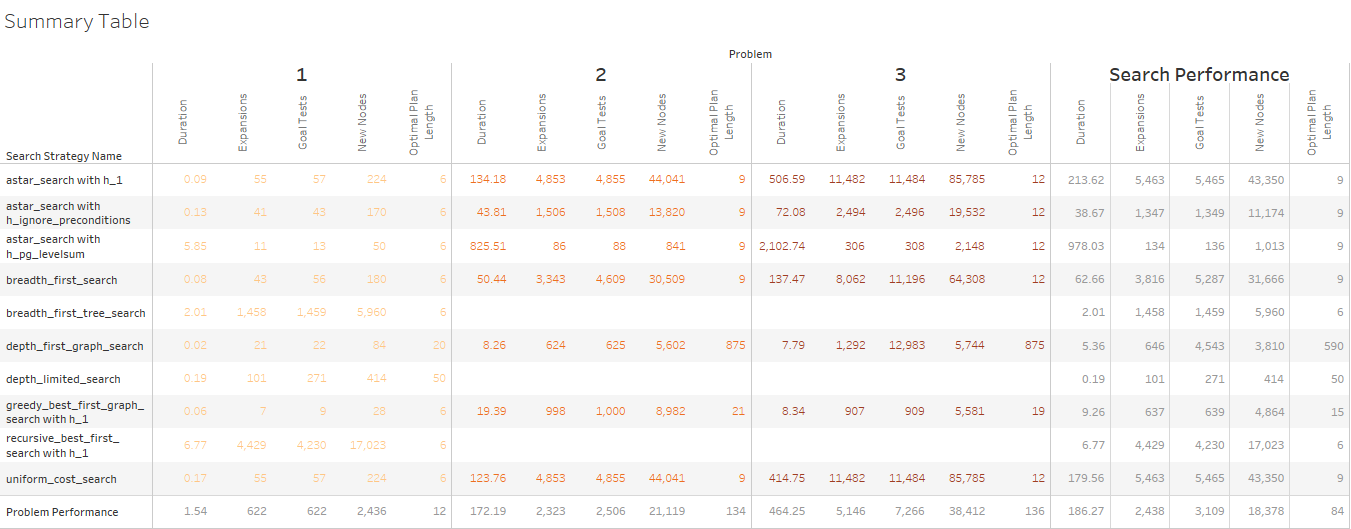
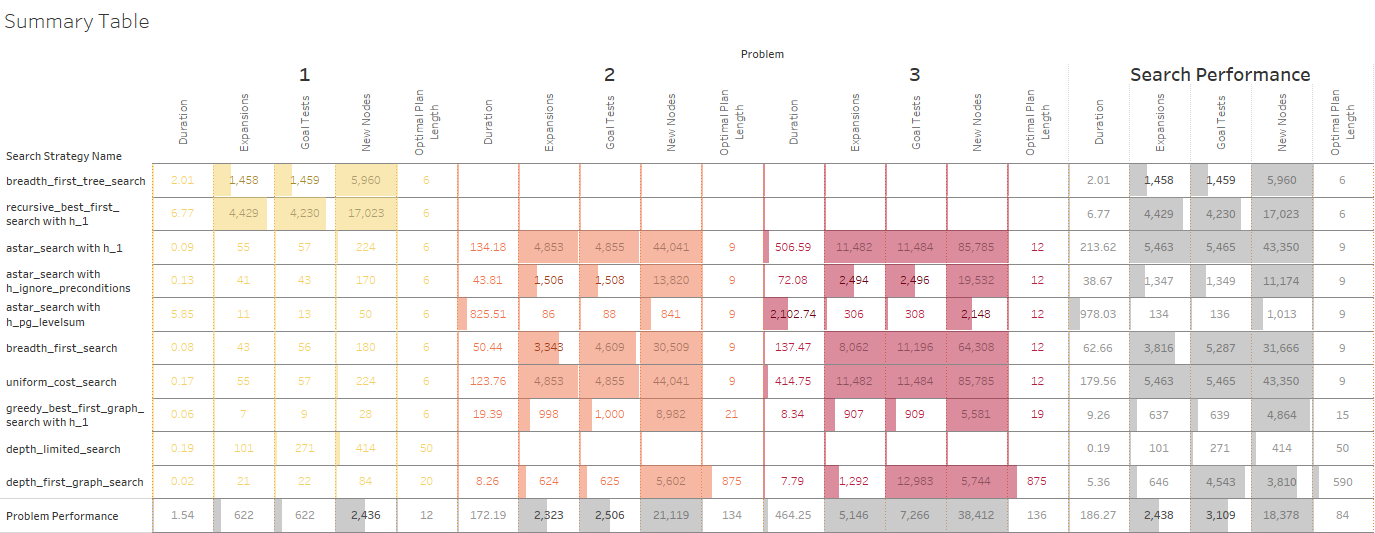
Finishing touches.

diff --git a/heuristic_analysis.md b/heuristic_analysis.md
@@ -3,7 +3,8 @@
 
 ## Results
 
-![](images/SummaryTable.png)
+[![](images/SummaryTable.png)](https://public.tableau.com/views/planningAI/SummaryTable?:embed=y&:display_count=yes)
+
 
 When `depth_limited_search` found a search, it was typically the quickest to find a solution, but it was almost always insane. The best metric for measuring search performance (in my opinion) is **Optimal Plan Length** which averages the solutions to demonstrate performance across all 3 problems. 
 
@@ -20,7 +21,7 @@ These were the shortest search paths found by any kind of search, informed or ot
 
 ### Uninformed Search Strategies
 
-![](images/UniformedStrategies.png)
+[![](images/UniformedStrategies.png)](https://public.tableau.com/views/planningAI/UniformedSearchStrategies?:embed=y&:display_count=yes)
 
 These strategies are uninformed, and rely only on the immediate frontier to make decisions. 
 
@@ -31,14 +32,29 @@ These strategies are uninformed, and rely only on the immediate frontier to make
 
 ### Heuristic Search Strategies
 
-![](images/InformedStrategies.png)
+[![](images/InformedStrategies.png)](https://public.tableau.com/views/planningAI/InformedSearchStrategies?:embed=y&:display_count=yes)
 
 Compare and contrast heuristic search result metrics using A* with the and "level-sum" heuristics for Problems 1, 2, and 3.
 
-`astar_search with h_ignore_preconditions` used the fewest the resources and ran the fastest, implying reduced algorithmic complexity. I was honestly kind of shocked at its performance. That said, all of the informed searches outranked the uninformed searches, always found the best solution, and had clear optimizations for space (`astar_search_with_h_ignore_preconditions`) or time (`astar_search_with_h_ignore_preconditions`). 
+`astar_search with h_pg_levelsum` used the fewest the resources implying reduced algorithmic complexity. I was very impressed with its performance; but as the most well defined problem, this is not atypical. That said, all of the informed searches outranked the uninformed searches, always found the best solution, often with an increased cost in space (`astar_search_with_h1`) or time (`astar_search_with_h_ignore_preconditions`). 
 
 ### Conclusion
-TODO: What was the best heuristic used in these problems? Was it better than non-heuristic search planning methods for all problems? Why or why not?
 
-My understanding ofthe differenece between `h_1`, `h_ignore_preconditions` and `h_pg_levelsum` are still a little shaky, but I hope when I catch up on the readings they'll make a little more sense. 
+| `h_1`        | `h_ignore_preconditions`           | `h_pg_levelsum`  |
+| ------------- |-------------| -----|
+| `# note that this is not a true heuristic` This heuristic is just a constant of 1 | This heuristic estimates the minimum number of actions that must be carried out from the current state in order to satisfy all of the goal conditions by ignoring the preconditions required for an action to be executed. |         This heuristic uses a planning graph representation of the problem state space to estimate the sum of all actions that must be carried out from the current state in order to satisfy each individual goal condition. |
+
+[![](images/SummaryTable.png)](https://public.tableau.com/views/planningAI/SummaryTable?:embed=y&:display_count=yes)
+
+#### `astar_search with h_pg_levelsum` 
+Relatively more space effecient than any other search strategy, despite taking a little longer to run. With the entire structure of the planning graph, it is the most well defined problem. 
+
+#### `astar_search_with_h1`
+Wasn't really an informed search since `h1` is arbitrary, so it ended up just being a more expensive BFS, since we took one step further than we needed to every time.  
+
+#### `astar_search_with_h_ignore_preconditions` 
+Yielded some significant savings as well, and reached an optimal solution faster without the whole planning graph. Definitely the all-star in my book; a good tradeoff between implementational scale and effeciency. 
+
+[![](images/SummaryTable_Highlight.png)](https://public.tableau.com/views/planningAI/SummaryTable?:embed=y&:display_count=yes)
+
 
